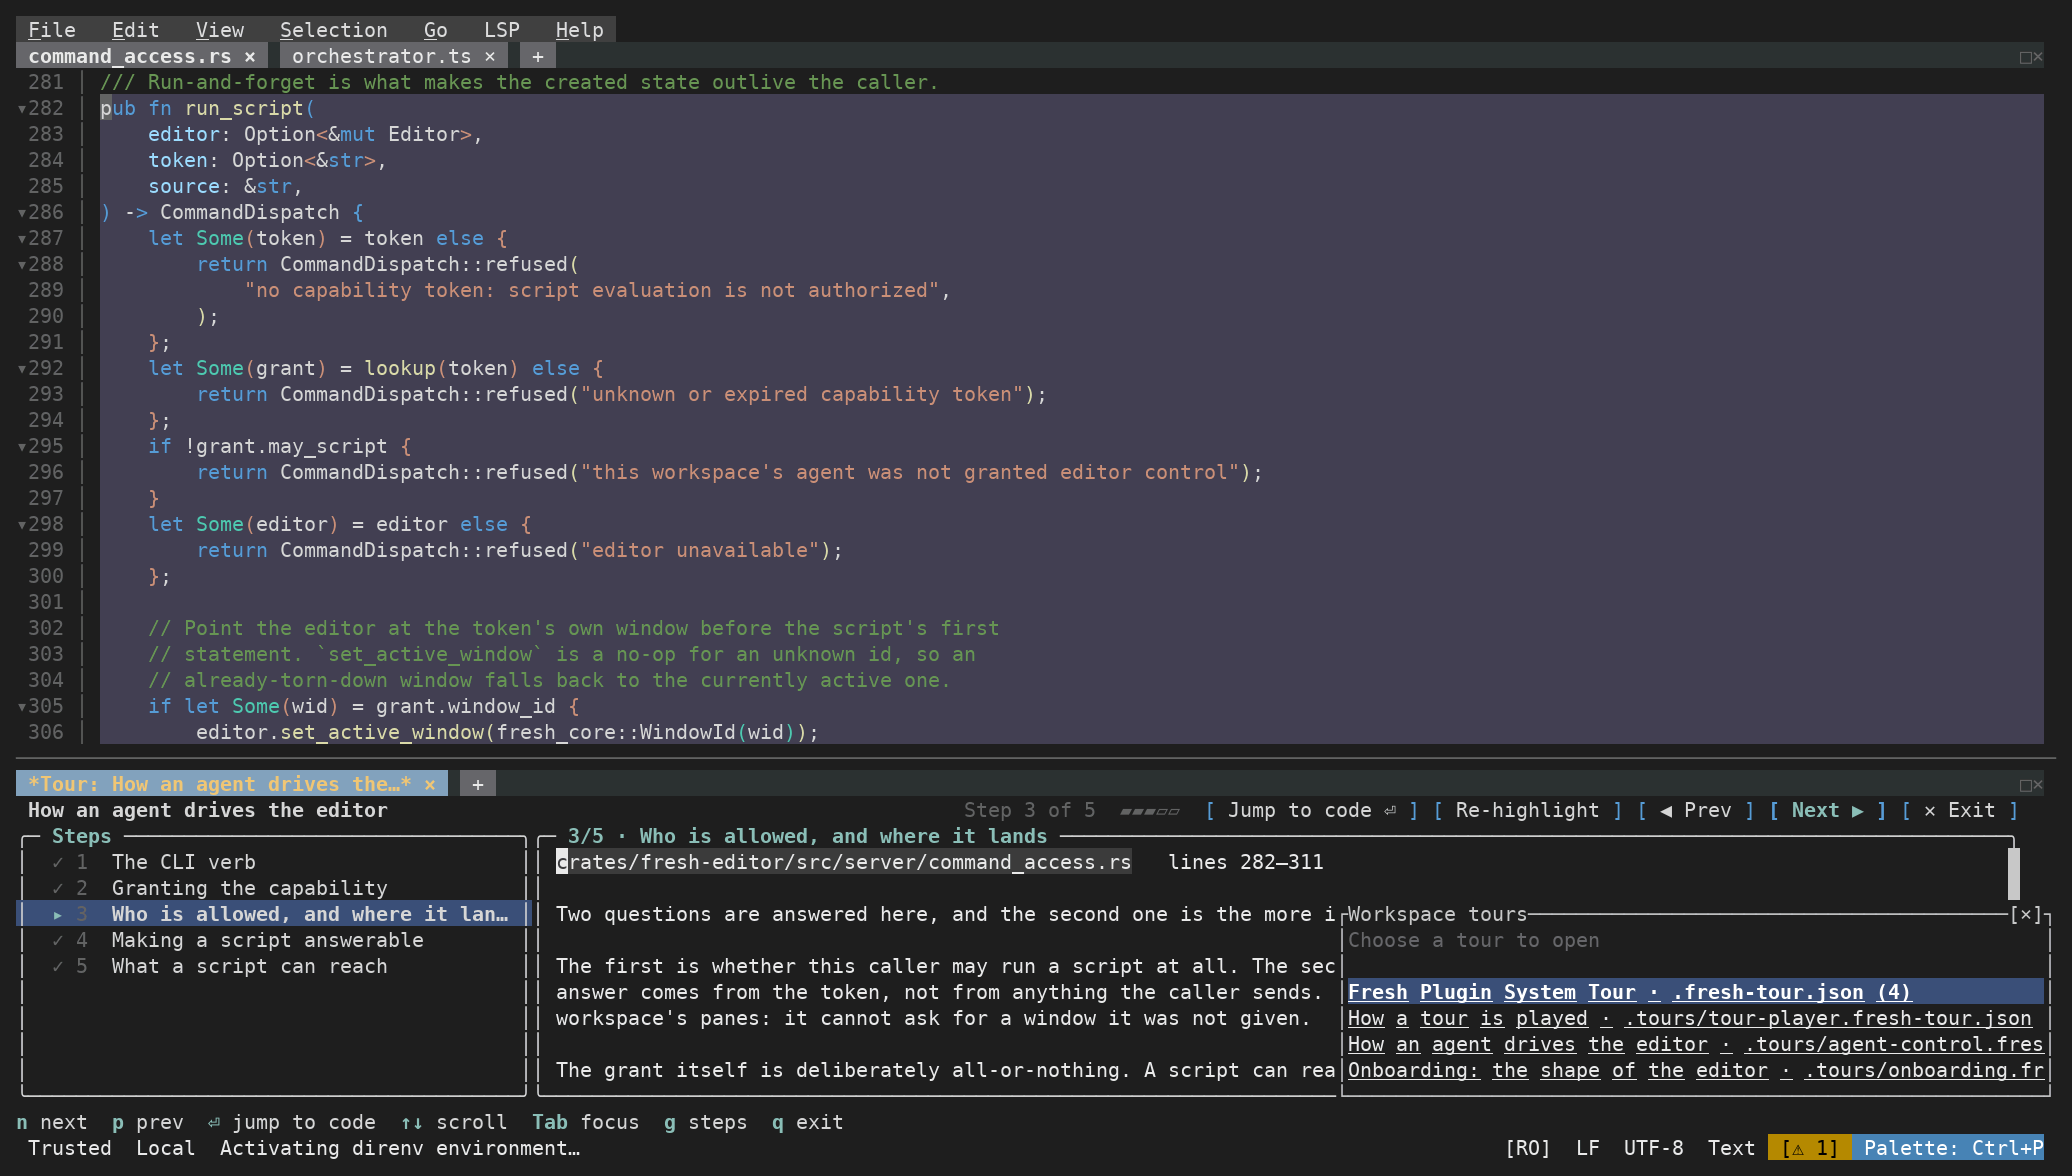
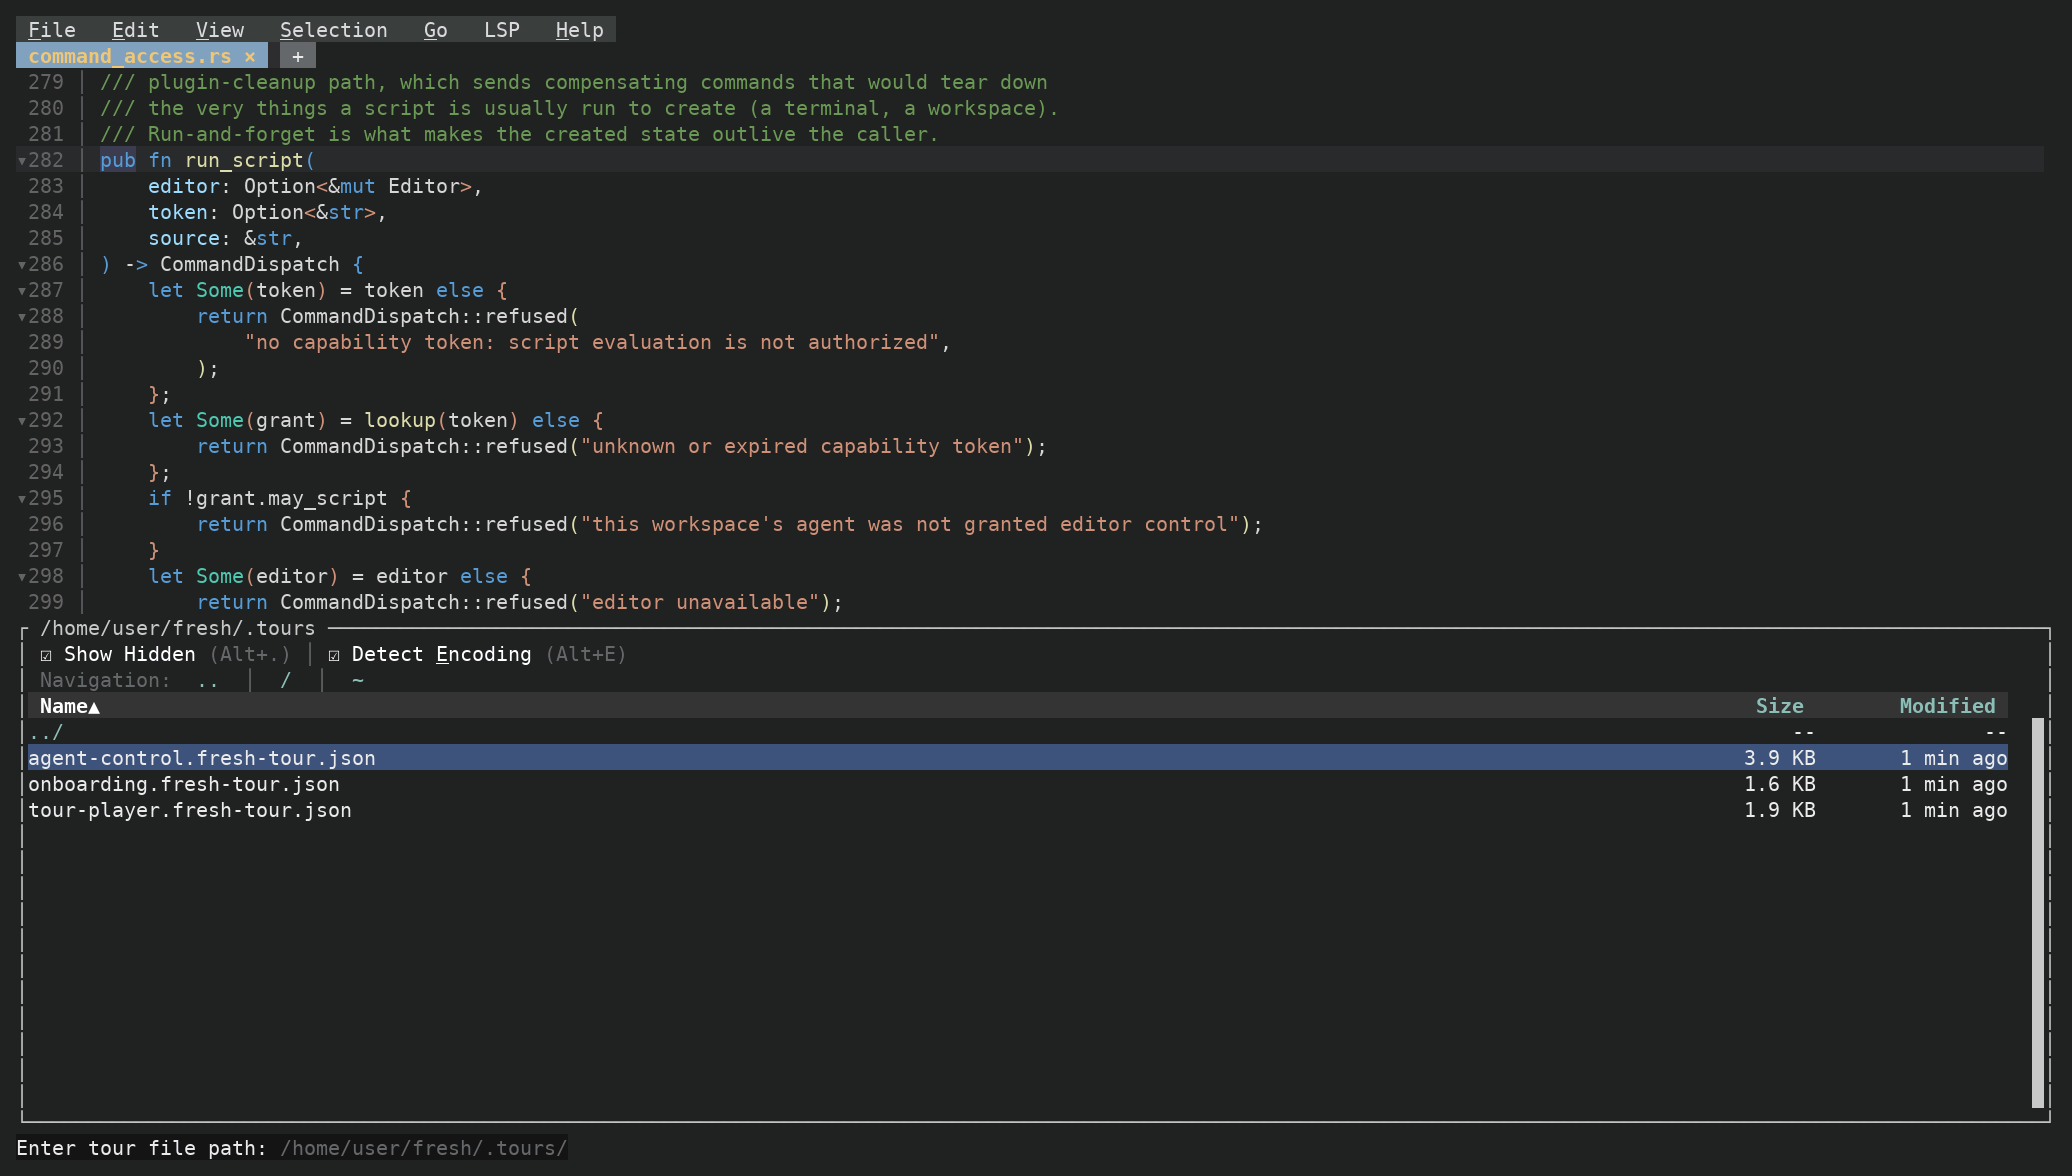
Docs: opening a tour is a file browser now, not a discovery picker
Master no longer offers a list of discovered tours — both palette
commands open the file browser at the project root with hidden files
shown, and deliberately never auto-open a guess. The page said tours
were found for you and showed the old picker; both are corrected, and
the screenshots are retaken on the current build.

diff --git a/docs/features/code-tours.md b/docs/features/code-tours.md
@@ -22,7 +22,7 @@ An agent running in your workspace can write the tour *and* open it, so it appea
 
 Generating a tour on the spot rather than maintaining one has two advantages. It is current, because it is written against the code as it is now rather than as it was when someone last updated the file. And it is written for whoever asked: you can ask for more or less detail, for a focus on the parts you do not know, or for a tour of only the code a particular change touched.
 
-Tours that pay off repeatedly are worth keeping — an onboarding tour of the main request path, an architecture tour that ships with the repository. Check those into source control like any other file. Both routes produce the same thing.
+Tours that pay off repeatedly are worth keeping — an onboarding tour of the main request path, an architecture tour that ships with the repository. Check those into source control like any other file; a manifest at the project root, or a `.tours` directory for a set of them, are the conventional homes, and are also where the CodeTour extension puts its own. Both routes produce the same thing.
 
 ## What tours are good for
 
@@ -33,9 +33,13 @@ Tours that pay off repeatedly are worth keeping — an onboarding tour of the ma
 
 ## Opening one
 
-From the command palette, ask Fresh to find the tours in this project, or point it at a tour file directly. Tours checked into a repository in the usual places are found automatically; if there is more than one, you get a picker.
+Ask for a tour from the command palette and Fresh opens a file browser at the project root, with hidden files shown — tours are dotfiles, so that is where they are. Pick the one you want.
 
-![The workspace tour picker listing four tours found in the repository](/images/code-tour-picker.png)
+It deliberately does not pick for you. A repository can hold several tours, and opening a guess is worse than one more keystroke.
+
+![The file browser showing the tour manifests in a project's .tours directory](/images/code-tour-picker.png)
+
+*Hidden files are shown for you, so the manifests are one keystroke away wherever the project keeps them.*
 
 ## Moving through a tour
 
